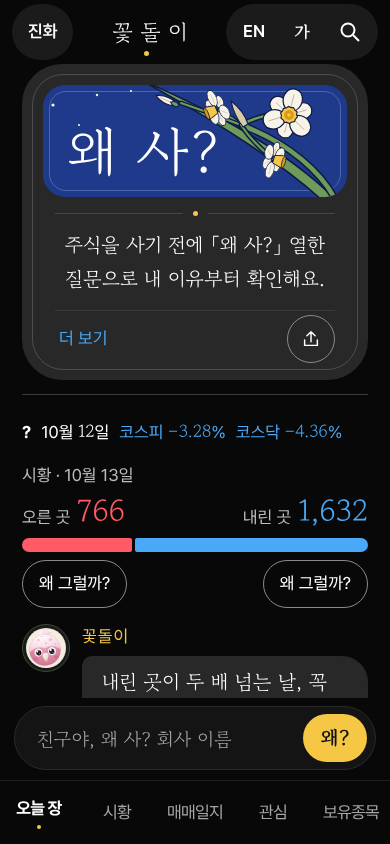
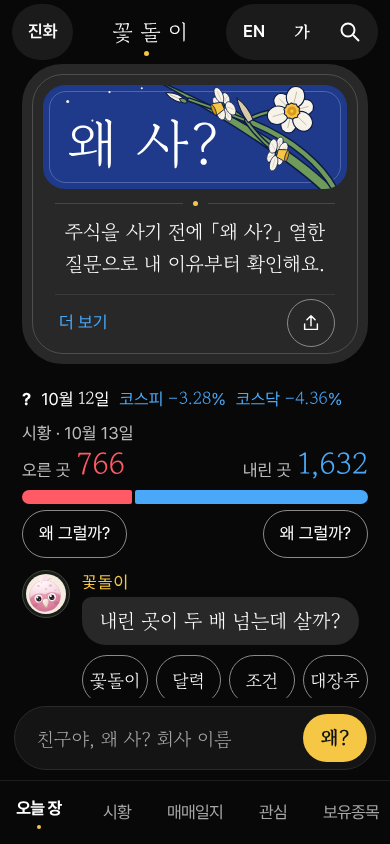
스마트 석 장 끝 — 한 줄 · 짧은 길 · 날렵한 판
Claude-Session: https://claude.ai/code/session_01NCpyR4ELc71hqitZJpUS2Z

Changed region(s): [[0.0308, 0.3697, 0.9538, 0.8318], [0.1231, 0.0924, 0.8923, 0.3389], [0.3692, 0.154, 0.4308, 0.1848]]

diff --git a/docs/design/kakao-2026-10-19/mock/s1.html b/docs/design/kakao-2026-10-19/mock/s1.html
@@ -114,14 +114,14 @@ button,input{font:inherit;color:inherit;background:none;border:0}
 .plate .rule{margin:14px auto 12px}
 
 /* s1 · 「똑똑한 한 줄」 — 판화 이름판 바로 밑에 오늘 장을 한 줄로: 날짜 알약(지수 둘) → 오른 곳 : 내린 곳 막대 하나(곳 수 그대로의 비율 · 평평한 두 색) → 사실마다 「왜 그럴까?」 · 꽃돌이 물음은 그 사실에서 나옴 */
-.read{margin-top:14px;border-top:1px solid #3A3A3A;padding-top:12px}
-.read .pill{justify-content:space-between;align-items:center;margin:0 0 8px}
+.read{margin-top:10px}
+.read .pill{justify-content:flex-start;align-items:center;margin:0}
 .read .pill .in{background:none}
 .read .pill a{padding:11px 0 9px;column-gap:10px}
 .news{margin-top:0}
-.read .news h2{display:block;font-weight:400;font-size:17px;color:#BDBDBD;margin:0 0 6px;text-align:left}
+.read .news h2{display:block;font-weight:400;font-size:17px;color:#BDBDBD;margin:0 0 4px;line-height:1.3;text-align:left}
 .read .cap{font-size:17px;color:#BDBDBD;white-space:nowrap}
-.split{display:grid;grid-template-columns:1fr 1fr;column-gap:12px;row-gap:8px}
+.split{display:grid;grid-template-columns:1fr 1fr;column-gap:12px;row-gap:6px}
 .split .f{display:contents}
 .split .f>span[data-num]{display:flex;align-items:baseline;gap:6px;grid-row:1}
 .split .fu>span[data-num]{grid-column:1}
@@ -138,8 +138,14 @@ button,input{font:inherit;color:inherit;background:none;border:0}
 .split .qs{display:none;grid-column:1/3;font-size:17px;color:#D6D6D6}
 .split .fu .qs{grid-row:4}.split .fd .qs{grid-row:5}
 .split .f.open .qs{display:block}
-.read+.from{margin-top:16px}
-.from .say{font-size:20px;border-radius:10px 26px 26px 26px;padding:11px 20px}
+.read+.from{margin-top:12px}
+.read+.from .who{margin-bottom:2px}
+.read~.gdr{margin-top:10px}
+.read~.all{margin-top:2px}
+.plate .head{height:104px}
+.plate p[data-ess="1"]{line-height:1.6}
+.plate .rule{margin:12px auto 10px}
+.from .say{font-size:20px;line-height:1.4;border-radius:10px 26px 26px 26px;padding:10px 18px;white-space:nowrap}
 .mine{margin-top:24px}
 
 @media (max-width:359px){
@@ -159,8 +165,9 @@ button,input{font:inherit;color:inherit;background:none;border:0}
   .plate .foot{margin-top:12px}
   .gdr,.news ul{margin-left:0}
   .split .v{font-size:26px}
+  .from .say{white-space:normal;font-size:19px}
   .split button{padding:0 12px}
-  .read .pill a{column-gap:8px}
+  .read .pill a{column-gap:8px;justify-content:flex-start}
   .gdr a{font-size:17px}
   .ttl::after{margin-left:-.18em}
   .tabs a{letter-spacing:-0.07em}
@@ -230,7 +237,7 @@ button,input{font:inherit;color:inherit;background:none;border:0}
     <span class="av"><img src="../../../../site/media/makbi-icon.svg" alt=""></span>
     <div>
       <div class="who">꽃돌이</div>
-      <p class="say serif" data-say>내린 곳이 두 배 넘는 날, 꼭 오늘 사야 할까?</p>
+      <p class="say serif" data-say>내린 곳이 두 배 넘는데 살까?</p>
     </div>
   </div>
   <nav class="gdr" data-w="gdr" aria-label="꽃돌이 칸">

diff --git a/docs/design/kakao-2026-10-19/mock/s1.why.md b/docs/design/kakao-2026-10-19/mock/s1.why.md
@@ -1,0 +1,19 @@
+# s1 · 「똑똑한 한 줄」
+
+한 줄 생각: g3 「목판화 꽃가지」 이름판은 그대로 둔다. 그 바로 밑에서 오늘 장을 한 줄로 읽어 준다. 오른 곳과 내린 곳을 막대 하나에 곳 수 그대로 나란히 놓는다.
+
+## 왜? 다섯
+1. 왜 숫자 둘이 아니라 막대 하나인가? 766과 1,632는 읽어야 알지만, 막대는 보자마자 「내린 곳이 훨씬 많다」가 보인다.
+2. 왜 날짜 알약을 막대 위로 옮겼나? 코스피 −3.28% · 코스닥 −4.36%와 오른 곳 · 내린 곳이 한자리에 모여야 한 번에 읽힌다.
+3. 왜 칠은 평평한 두 색뿐인가? 빨강은 오른 곳, 파랑은 내린 곳에만 쓴다. 글자 빨강은 숫자 766 하나뿐이다.
+4. 왜 꽃돌이 말이 바뀌었나? 「내린 곳이 두 배 넘는데 살까?」는 막대에서 바로 나온 물음이다. 1,632 ÷ 766 = 2.13이라 「두 배 넘는」은 있는 숫자로 셈한 것이다.
+5. 본질: 사기 전에 한 번 멈추게 하는 곳. 오늘 장이 어땠는지 한 줄로 보고, 꽃돌이 물음 앞에서 한 번 멈춘다.
+
+## 그럴까?
+막대가 「내린 날이니 사지 마라」로 읽히지 않을까? 그래서 막대 밑에 사실마다 「왜 그럴까?」를 두고, 꽃돌이는 답 대신 물음만 한다. 앞날 말 · 권하는 말은 없다.
+
+## 그대로 둔 것
+판화 이름판 · 본질 세 줄 · 숫자 · 날짜 · 이름 꽃돌이 · 표시(data-w · data-ess · data-say · data-num · data-fact · data-path · jhBtn) · 아래 단추 다섯. 「내 기록」 줄은 첫 화면 아래로 내려갔다(기록은 아래 「매매일지」 단추로 한 번에 닿음).
+
+## 검사
+check_white --mock: 통과 22 · 실패 2(흰 바탕 · 글 #16181D — 어두운 카톡 판이라 걸려도 되는 두 줄뿐).
